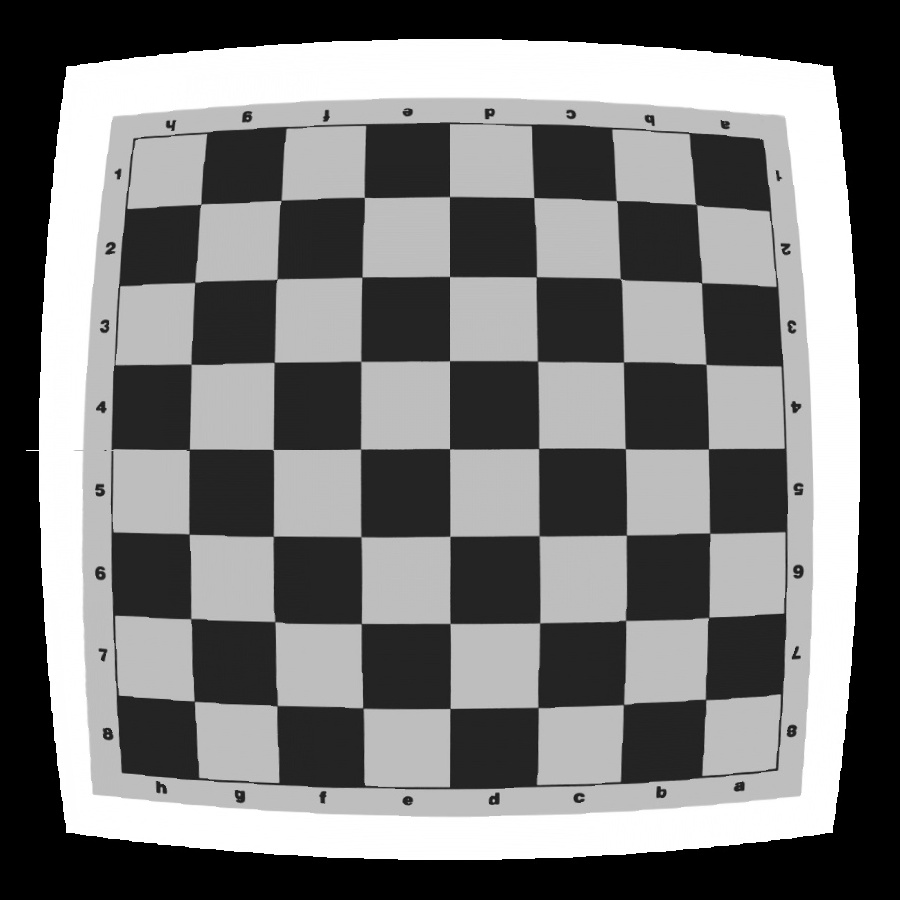
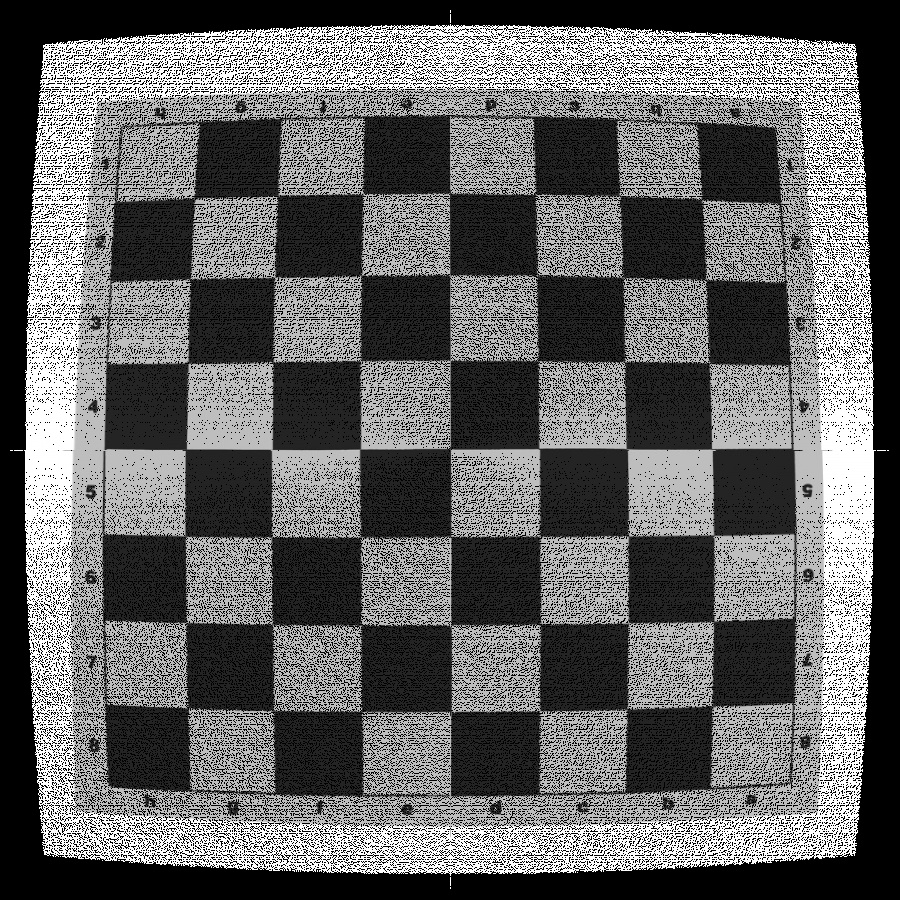
final formula

diff --git a/dist_cv.py b/dist_cv.py
@@ -4,6 +4,7 @@ from typing import List, Tuple
 import numpy as np
 import cv2
 import math
+import statistics
 
 
 def apply_dist(img: np.ndarray, coefficients: List[float]) -> np.ndarray:
@@ -12,8 +13,8 @@ def apply_dist(img: np.ndarray, coefficients: List[float]) -> np.ndarray:
     dst_img = np.zeros((rows, cols, chn))
 
     # Set internal parameters
-    fx = 779.423  # 2414.55  # 779.423
-    fy = 779.423  # 2413.54  # 779.423
+    fx = 1000  # 2414.55  # 779.423
+    fy = 1000  # 2413.54  # 779.423
     cx = img.shape[0] // 2
     cy = img.shape[1] // 2
 
@@ -21,7 +22,8 @@ def apply_dist(img: np.ndarray, coefficients: List[float]) -> np.ndarray:
     k1 = coefficients[0]  # 0.274058
     k2 = coefficients[1]  # 0  #-1.56158
     k3 = coefficients[2]  # 0  #2.86023
-
+    mismatch_x = []
+    mismatch_y = []
     for j in range(rows):
         for i in range(cols):
             # Go to camera coordinate system
@@ -30,8 +32,18 @@ def apply_dist(img: np.ndarray, coefficients: List[float]) -> np.ndarray:
             r = x * x + y * y
 
             # Add radial distortion
-            newx = x * (1 + k1 * r + k2 * r * r + k3 * r * r * r)
-            newy = y * (1 + k1 * r + k2 * r * r + k3 * r * r * r)
+            x_un = x * (1 + k1 * r + k2 * r * r + k3 * r * r * r)
+            y_un = y * (1 + k1 * r + k2 * r * r + k3 * r * r * r)
+
+            newx, newy = calc_undistortion_coeff(x, y)
+
+            # if round(newx, 4) != round(x_un, 4):
+            #     mismatch_x.append(round(newx, 4) - round(x_un, 4))
+            #     print(f'newx = {round(newx, 4)}, x = {round(x, 4)}')
+            # if round(newy, 4) != round(y_un, 4):
+            #     mismatch_y.append(round(newy, 4) - round(y_un, 4))
+            #     print(f'newy = {round(newy, 4)}, y = {round(y, 4)}')
+
 
             # Then go to the image coordinate system
             u = newx * fx + cx
@@ -53,6 +65,17 @@ def apply_dist(img: np.ndarray, coefficients: List[float]) -> np.ndarray:
             if u0 >= 0 and u1 < cols and v0 >= 0 and v1 < rows:
                 dst_img[j, i, :] = weight1 * img[v0, u0, :] + weight3 * img[v1, u0, :] + \
                                    weight2 * img[v0, u1, :] + weight4 * img[v1, u1, :]
+
+    print(f'len = {len(mismatch_x)}')
+    print(f'len = {len(mismatch_y)}')
+    if mismatch_x:
+        print(f'max x = {max(mismatch_x)}')
+        print(f'min x = {min(mismatch_x)}')
+        print(f'avg x = {statistics.mean(map(abs, mismatch_x))}')
+    if mismatch_y:
+        print(f'max y = {max(mismatch_y)}')
+        print(f'min y = {min(mismatch_y)}')
+        print(f'avg y = {statistics.mean(map(abs, mismatch_y))}')
 
     return dst_img
 
@@ -89,7 +112,8 @@ def apply_undist(img: np.ndarray, coefficients: List[float]) -> Tuple[np.ndarray
     fy = 1000
     cx = img.shape[0] // 2
     cy = img.shape[1] // 2
-
+    mismatch_x = []
+    mismatch_y = []
     for y_j in range(rows):
         for x_i in range(cols):
 
@@ -100,24 +124,35 @@ def apply_undist(img: np.ndarray, coefficients: List[float]) -> Tuple[np.ndarray
             #
             if x_i != 0 and y_j != 0:
 
-                und_x, und_y = calc_undistortion_coeff(x, y)
+                # und_x, und_y = calc_undistortion_coeff(x, y)
+                r = x * x + y * y
+                newx = x * (1 + coefficients[0] * r)
+                newy = y * (1 + coefficients[0] * r)
+
                 # AAAAAAAAAAAAAAAAAAAAAAAAAAAAAAAAA
                 # region check x==und_x and y==und_y
-                r = und_x * und_x + und_y * und_y
-                newx = und_x * (1 + 0.2 * r)
-                newy = und_y * (1 + 0.2 * r)
-                # und_x = newx
-                # und_y = newy
+                # r = und_x * und_x + und_y * und_y
+                # newx = und_x * (1 + coefficients[0] * r)
+                # newy = und_y * (1 + coefficients[0] * r)
+                und_x = newx
+                und_y = newy
 
-                if round(newx, 4) != round(x, 4):
-                    print(f'newx = {round(newx, 4)}, x = {round(x, 4)}')
-                if round(newy, 4) != round(y, 4):
-                    print(f'newy = {round(newy, 4)}, y = {round(y, 4)}')
+                # if round(newx, 4) != round(x, 4):
+                #     mismatch_x.append(round(newx, 4) - round(x, 4))
+                #     # print(f'newx = {round(newx, 4)}, x = {round(x, 4)}')
+                # if round(newy, 4) != round(y, 4):
+                #     mismatch_y.append(round(newy, 4) - round(y, 4))
+                #     # print(f'newy = {round(newy, 4)}, y = {round(y, 4)}')
                 # endregion
             else:
+                r = x * x + y * y
+                newx = x * (1 + coefficients[0] * r)
+                newy = y * (1 + coefficients[0] * r)
+                und_x = newx
+                und_y = newy
 
-                und_x = x_i
-                und_y = y_j
+                # und_x = x_i
+                # und_y = y_j
 
             # Then go to the image coordinate system
             u = und_x * fx + cx
@@ -146,90 +181,30 @@ def apply_undist(img: np.ndarray, coefficients: List[float]) -> Tuple[np.ndarray
                 dst_img_[x_i, y_j, :] = weight1 * img[v0, u0, :] + weight3 * img[v1, u0, :] + \
                                         weight2 * img[v0, u1, :] + weight4 * img[v1, u1, :]
 
+    print(f'len = {len(mismatch_x)}')
+    print(f'len = {len(mismatch_y)}')
+    if mismatch_x:
+        print(f'max x = {max(mismatch_x)}')
+        print(f'min x = {min(mismatch_x)}')
+        print(f'avg x = {statistics.mean(map(abs, mismatch_x))}')
+    if mismatch_y:
+        print(f'max y = {max(mismatch_y)}')
+        print(f'min y = {min(mismatch_y)}')
+        print(f'avg y = {statistics.mean(map(abs, mismatch_y))}')
+
     return dst_img, dst_img_
 
 
-#
-# def apply_undist_(img: np.ndarray, coefficients: List[float]) -> np.ndarray:
-#     rows, cols, chn = img.shape
-#     fx = 1000 # 779.423  # 2414.55  # 779.423
-#     fy = 1000 # 779.423  # 2413.54  # 779.423
-#     cx = img.shape[0] // 2
-#     cy = img.shape[1] // 2
-#     for j in range(rows):
-#         for i in range(cols):
-#             newx, newy = undistort(i, j, coefficients, 3)
-#             # Then go to the image coordinate system
-#             # u = newx * fx + cx
-#             # v = newy * fy + cy
-#             #
-#             # # Bilinear interpolation
-#             # u0 = math.floor(u)  # //Equivalent to the x coordinate in the above formula is 0
-#             # v0 = math.floor(v)  # //Equivalent to the y ordinate in the above formula is 0
-#             # u1 = u0 + 1  # //Equivalent to the x coordinate in the above formula is 1
-#             # v1 = v0 + 1  # //Equivalent to the y ordinate in the above formula is 1
-#             #
-#             # dx = u - u0  # //Here dx is equivalent to x in the above formula
-#             # dy = v - v0  # //Here dy is equivalent to y in the above formula
-#             # weight1 = (1 - dx) * (1 - dy)
-#             # weight2 = dx * (1 - dy)
-#             # weight3 = (1 - dx) * dy
-#             # weight4 = dx * dy
-#             #
-#             # if u0 >= 0 and u1 < cols and v0 >= 0 and v1 < rows:
-#             dst_img[j, i, :] = img[int(newx), int(newy), :]
-#             # (1 - dx) * (1 - dy) * img[v0, u0, :] + (1 - dx) * dy * img[v1, u0, :] + dx * (
-#             #             1 - dy) * img[v0, u1, :] + dx * dy * img[v1, u1, :]
-#
-#     return dst_img
-
-#
-# def undistort(x, y, coefficients, iter_num=3):
-#     rows, cols, chn = img.shape
-#
-#     dst_img = np.zeros((rows, cols, chn))
-#
-#     # Set internal parameters
-#     fx = 779.423  # 2414.55  # 779.423
-#     fy = 779.423  # 2413.54  # 779.423
-#     cx = img.shape[0] // 2
-#     cy = img.shape[1] // 2
-#
-#     # Radial distortion parameters
-#     k1 = coefficients[0]
-#     k2 = coefficients[1]
-#     k3 = coefficients[2]
-#     p1 = 0
-#     p2 = 0
-#     # k1, k2, p1, p2, k3 = distortion
-#     # fx, fy = k[0, 0], k[1, 1]
-#     # cx, cy = k[:2, 2]
-#     x = x
-#     y = y
-#     x = (x - cx) / fx
-#     x0 = x
-#     y = (y - cy) / fy
-#     y0 = y
-#     for _ in range(iter_num):
-#         r2 = x ** 2 + y ** 2
-#         k_inv = 1 / (1 + k1 * r2 + k2 * r2 ** 2 + k3 * r2 ** 3)
-#         delta_x = 2 * p1 * x * y + p2 * (r2 + 2 * x ** 2)
-#         delta_y = p1 * (r2 + 2 * y ** 2) + 2 * p2 * x * y
-#         x = (x0 - delta_x) * k_inv
-#         y = (y0 - delta_y) * k_inv
-#     return np.array((x * fx + cx, y * fy + cy))
-
-
-img = cv2.imread("data/chess.jpg", 1)
+img = cv2.imread("data/chess3.jpg", 1)
 # img = cv2.resize(img, (388,388))
 # cv2.imwrite('cat_res.jpg', img)
-# dst_img = apply_dist(img, [0.2, 0, 0])
-# cv2.imwrite("chess_dist_1000.jpg", dst_img)
+dst_img = apply_dist(img, [0.2, 0, 0])
+cv2.imwrite("chess3_dist.jpg", dst_img)
 
-dst_img = cv2.imread("chess_dist_1000.jpg", 1)
+dst_img = cv2.imread("chess3_dist.jpg", 1)
 img_und, img_und_ = apply_undist(dst_img, [0.2, 0, 0])
-cv2.imwrite("chess_undist_1000.jpg", img_und)
-cv2.imwrite("chess_undist_1000_.jpg", img_und_)
+cv2.imwrite("chess3_undist.jpg", img_und)
+cv2.imwrite("chess3_undist_.jpg", img_und_)
 
 # fx = 1000  # 2414.55  # 779.423
 # fy = 1000

diff --git a/main.py b/main.py
@@ -1,5 +1,6 @@
 import math
 import cv2
+import matplotlib.pyplot as plt
 import numpy as np
 
 x_c: int
@@ -82,6 +83,7 @@ def apply_distortion(img: np.ndarray, K: np.ndarray, k1: float, k2: float = 0) -
     return distort_img
 
 
+plt.imsave()
 path_img = 'data/chess.jpg'
 
 img = cv2.imread(path_img)
